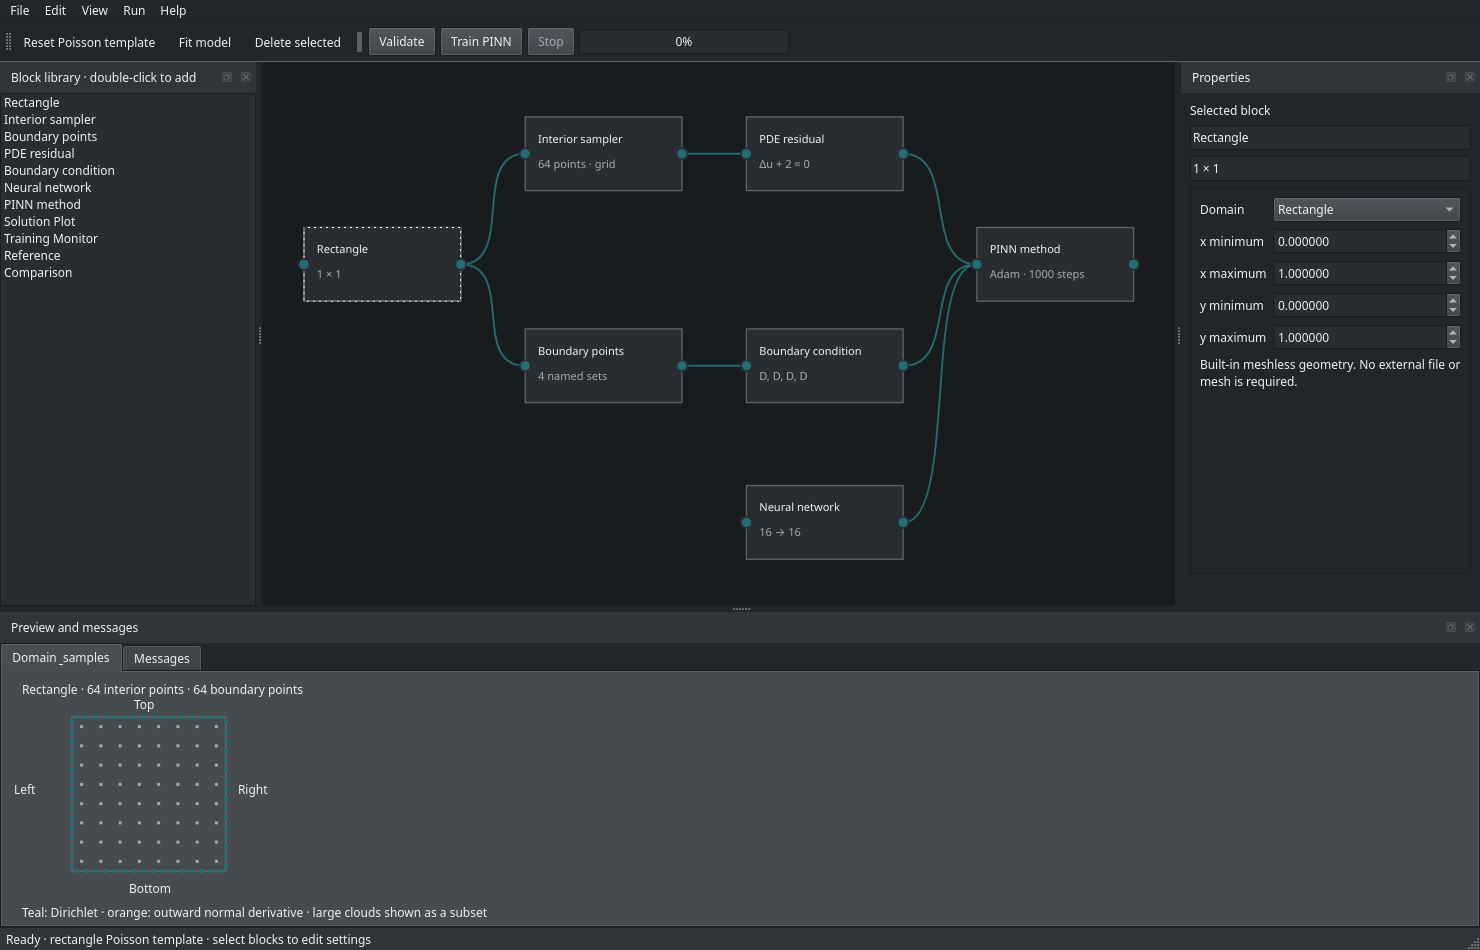
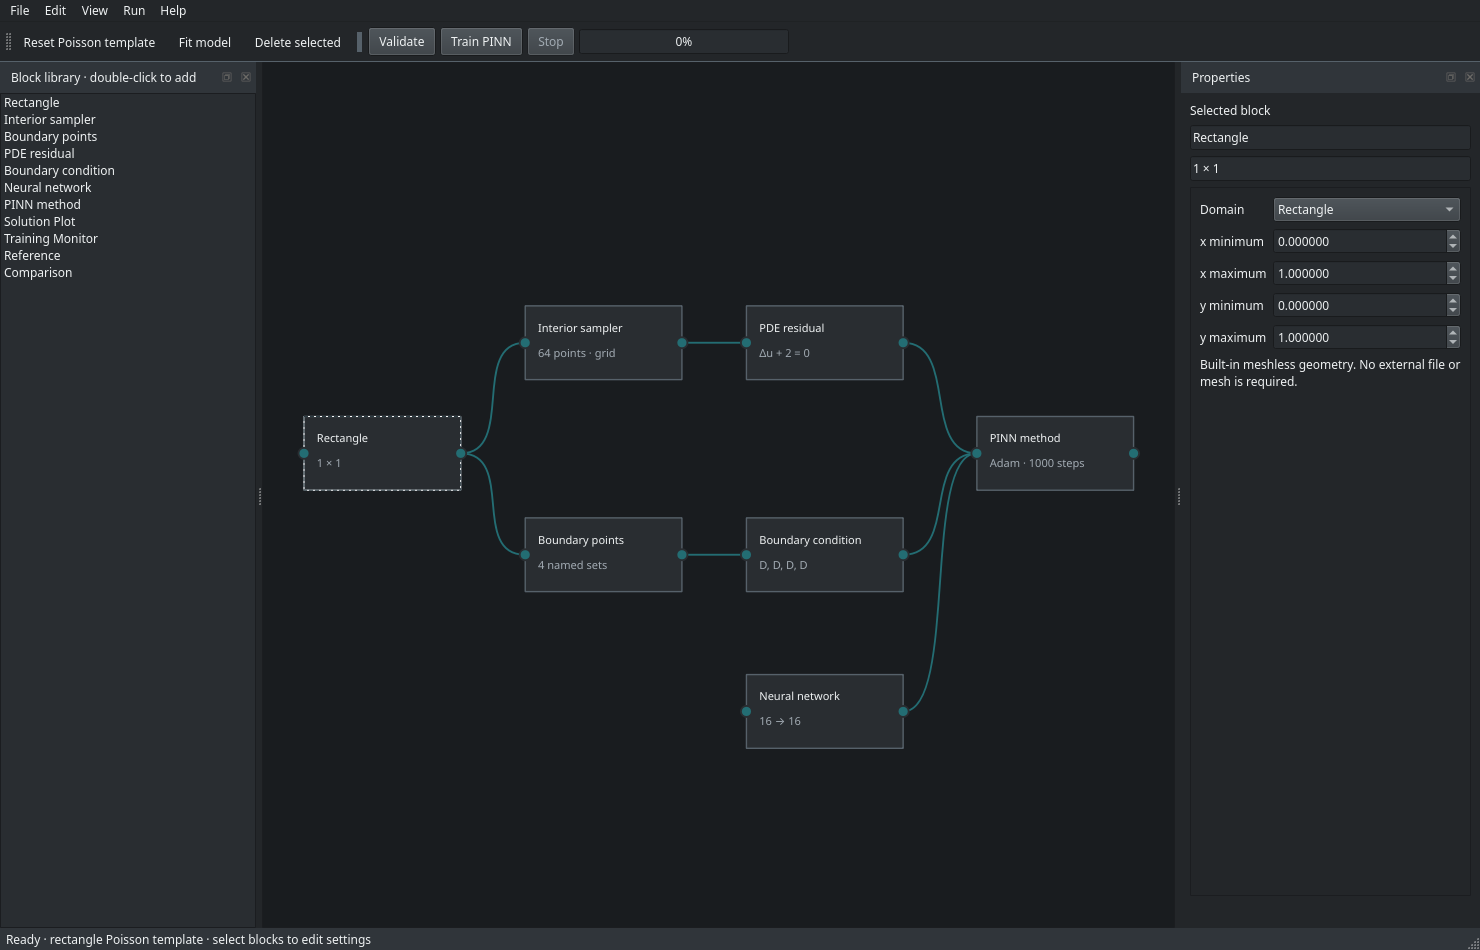
Preserve inspector visibility and capture block-owned previews

diff --git a/tests/test_block_context.py b/tests/test_block_context.py
@@ -81,7 +81,9 @@ w.change('shape','Rectangle')
 assert not w.rectangle_previews
 w.open_rectangle_preview(owner,True)
 assert len(w.rectangle_previews)==1
+w.properties_dock.close()
 w.delete_block(owner);app.processEvents()
+assert w.properties_dock.isHidden(), "Deleting a block must not open its inspector"
 assert not w.rectangle_previews
 assert other.scene() is w.scene
 w.reset_template();app.processEvents()

diff --git a/margam/ui/app.py b/margam/ui/app.py
@@ -416,7 +416,7 @@ class Window(QMainWindow):
 
     def delete_block(self, node):
         if self.is_running() or not isValid(node) or node.scene() is not self.scene:return
-        self.show_block_properties(node)
+        self.scene.clearSelection();node.setSelected(True)
         self.delete_selected()
 
     def block_help(self, node):
